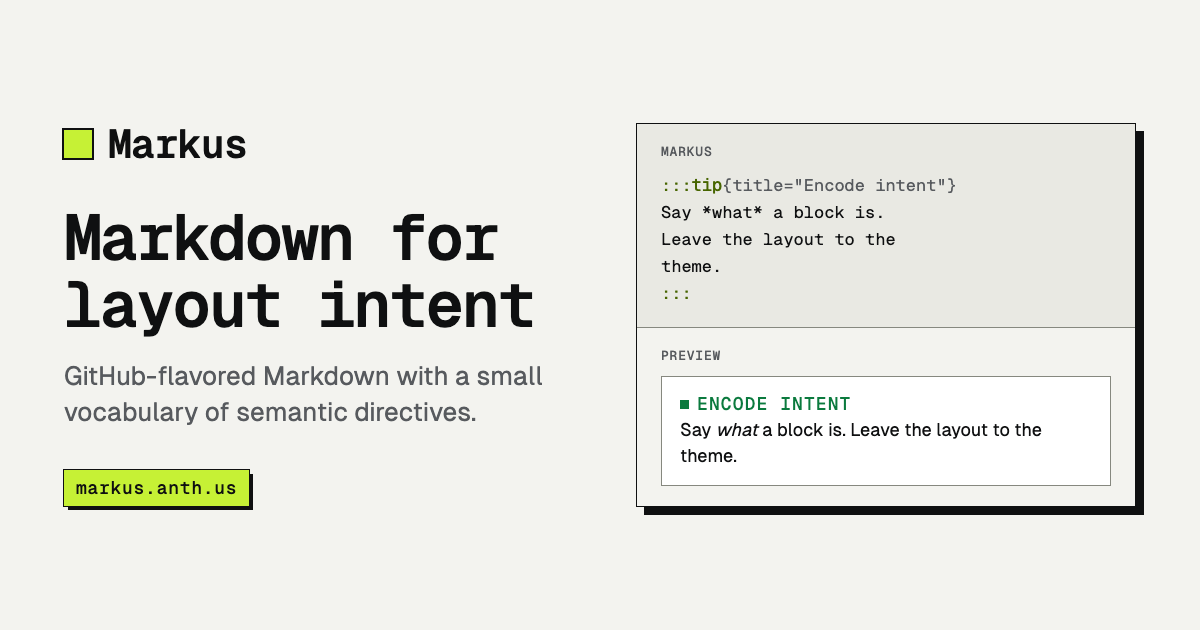
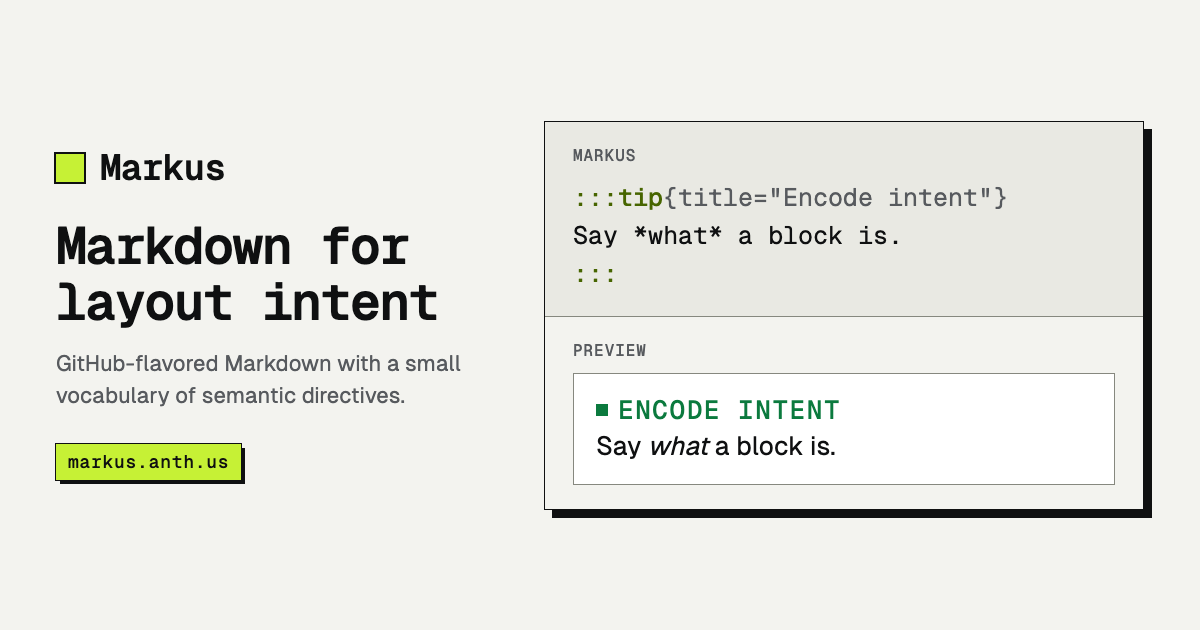
feat(site): larger code and preview on the social card

diff --git a/docsite/social-preview.html b/docsite/social-preview.html
@@ -43,10 +43,10 @@
     box-sizing: border-box;
     width: 1200px;
     height: 630px;
-    padding: 64px;
+    padding: 56px;
     display: grid;
-    grid-template-columns: 1fr 500px;
-    gap: 56px;
+    grid-template-columns: 1fr 600px;
+    gap: 48px;
     align-items: center;
   }
 
@@ -54,27 +54,27 @@
     display: flex;
     align-items: center;
     gap: 16px;
-    font: 600 40px/1 "Geist Mono", monospace;
+    font: 600 36px/1 "Geist Mono", monospace;
     letter-spacing: -0.02em;
   }
   .mark { width: 28px; height: 28px; background: var(--volt); box-shadow: 0 0 0 2px var(--ink); }
 
   h1 {
-    margin: 40px 0 20px;
-    font: 600 64px/1.05 "Geist Mono", monospace;
+    margin: 32px 0 18px;
+    font: 600 52px/1.08 "Geist Mono", monospace;
     letter-spacing: -0.035em;
   }
 
   .lede {
     margin: 0;
     max-width: 30ch;
-    font-size: 26px;
-    line-height: 36px;
+    font-size: 22px;
+    line-height: 32px;
     color: var(--ink-muted);
   }
 
   .url {
-    margin-top: 40px;
+    margin-top: 32px;
     display: inline-block;
     padding: 6px 12px;
     background: var(--volt);
@@ -89,10 +89,10 @@
     background: var(--surface);
   }
 
-  .pane { padding: 20px 24px; }
+  .pane { padding: 24px 28px; }
   .label {
     margin: 0 0 12px;
-    font: 500 13px/16px "Geist Mono", monospace;
+    font: 500 16px/20px "Geist Mono", monospace;
     letter-spacing: 0.06em;
     text-transform: uppercase;
     color: var(--ink-muted);
@@ -104,7 +104,7 @@
   }
   .source pre {
     margin: 0;
-    font: 400 17px/27px "Geist Mono", monospace;
+    font: 400 25px/38px "Geist Mono", monospace;
     color: var(--ink);
   }
   .f, .n { color: var(--volt-ink); }
@@ -115,20 +115,20 @@
   .callout {
     background: var(--surface);
     border: 1px solid var(--line-strong);
-    padding: 14px 18px 16px;
+    padding: 18px 22px 20px;
   }
   .callout-title {
     display: flex;
     align-items: center;
-    gap: 8px;
-    margin: 0 0 6px;
-    font: 500 13px/16px "Geist Mono", monospace;
+    gap: 10px;
+    margin: 0 0 8px;
+    font: 500 18px/22px "Geist Mono", monospace;
     letter-spacing: 0.06em;
     text-transform: uppercase;
     color: #0b7a3e;
   }
-  .callout-title::before { content: ""; width: 9px; height: 9px; background: currentColor; }
-  .callout p { margin: 0; font-size: 18px; line-height: 26px; }
+  .callout-title::before { content: ""; width: 12px; height: 12px; background: currentColor; }
+  .callout p { margin: 0; font-size: 26px; line-height: 36px; }
   .callout code {
     font: 400 16px "Geist Mono", monospace;
     background: var(--surface-sunken);
@@ -150,15 +150,13 @@
       <p class="label">Markus</p>
 <pre><span class="f">:::</span><span class="n">tip</span><span class="a">{title="Encode intent"}</span>
 Say *what* a block is.
-Leave the layout to the
-theme.
 <span class="f">:::</span></pre>
     </div>
     <div class="pane preview">
       <p class="label">Preview</p>
       <div class="callout">
         <p class="callout-title">Encode intent</p>
-        <p>Say <em>what</em> a block is. Leave the layout to the theme.</p>
+        <p>Say <em>what</em> a block is.</p>
       </div>
     </div>
   </div>
